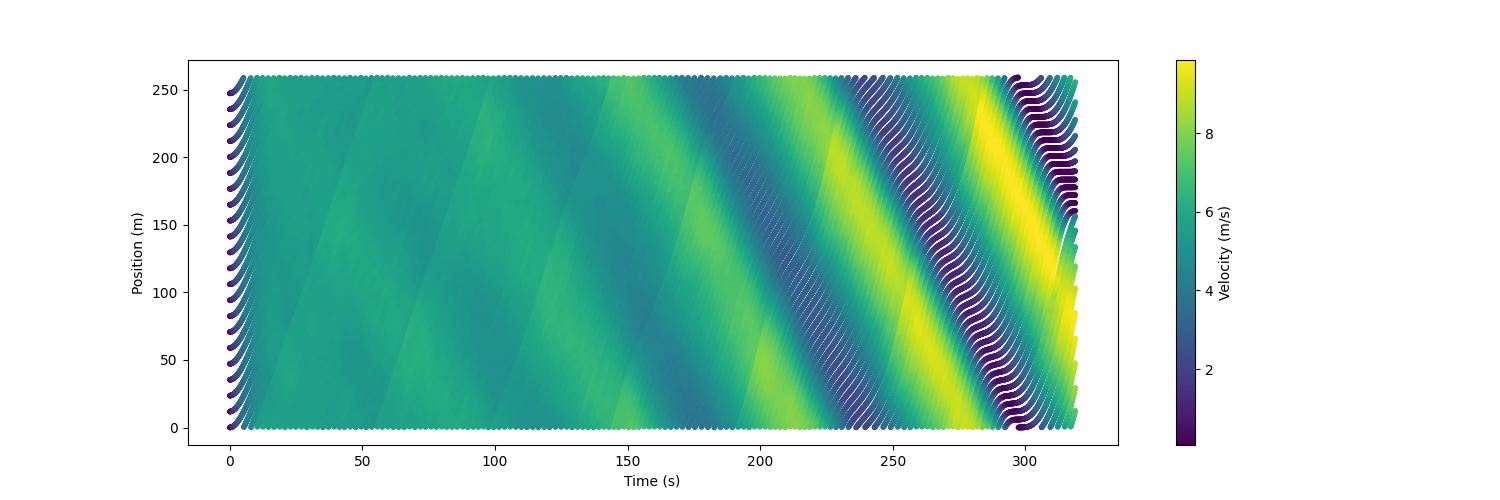
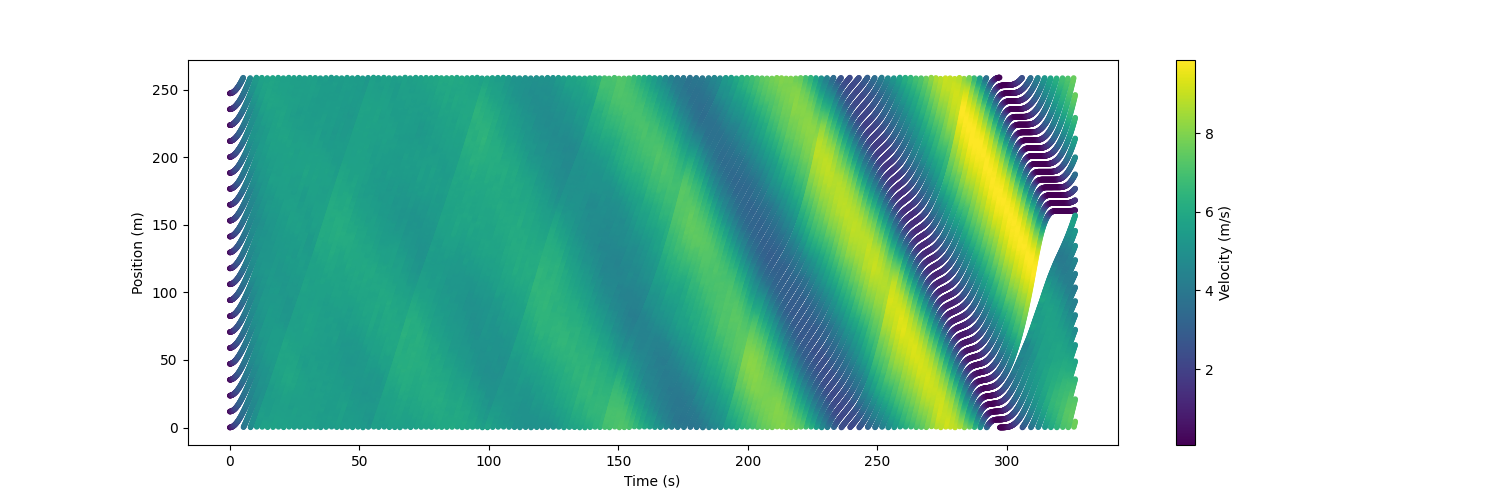
reward change

diff --git a/main.py b/main.py
@@ -17,7 +17,7 @@ def main():
         scripts.train_dqn.evaluate("/home/vamsi/Documents/GitHub/RingRoad-RL/Models/DQN/DQNTrainer_2022-03-03_19-28-07/DQNTrainer_ringroad-v1_f4621_00000_0_2022-03-03_19-28-08/checkpoint_000488/checkpoint-488")
 
     elif args.type == "eval_ppo":
-        scripts.train_ppo.evaluate("/home/vamsi/Documents/GitHub/RingRoad-RL/Models/PPO/PPOTrainer_2022-03-13_19-40-43/PPOTrainer_ringroad-v1_5f17e_00000_0_2022-03-13_19-40-44/checkpoint_000250/checkpoint-250")
+        scripts.train_ppo.evaluate("/home/vamsi/Documents/GitHub/RingRoad-RL/Models/PPO/PPOTrainer_2022-03-14_22-42-39/PPOTrainer_ringroad-v1_f3ea6_00000_0_2022-03-14_22-42-39/checkpoint_000250/checkpoint-250")
 
     elif args.type == "eval_idm":
         scripts.evaluate_idm.evaluate()

diff --git a/Ring_Road/envs/ringroad.py b/Ring_Road/envs/ringroad.py
@@ -126,7 +126,7 @@ class RingRoad(gym.Env):
         reward = self.state_extractor.get_average_vel()
 
         # punish accelerations (should lead to reduced stop-and-go waves)
-        eta = 0.75  # 0.25
+        eta = 0.25  # 0.25
         mean_actions = eta * np.mean(np.abs(action))
         accel_threshold = 0
 
